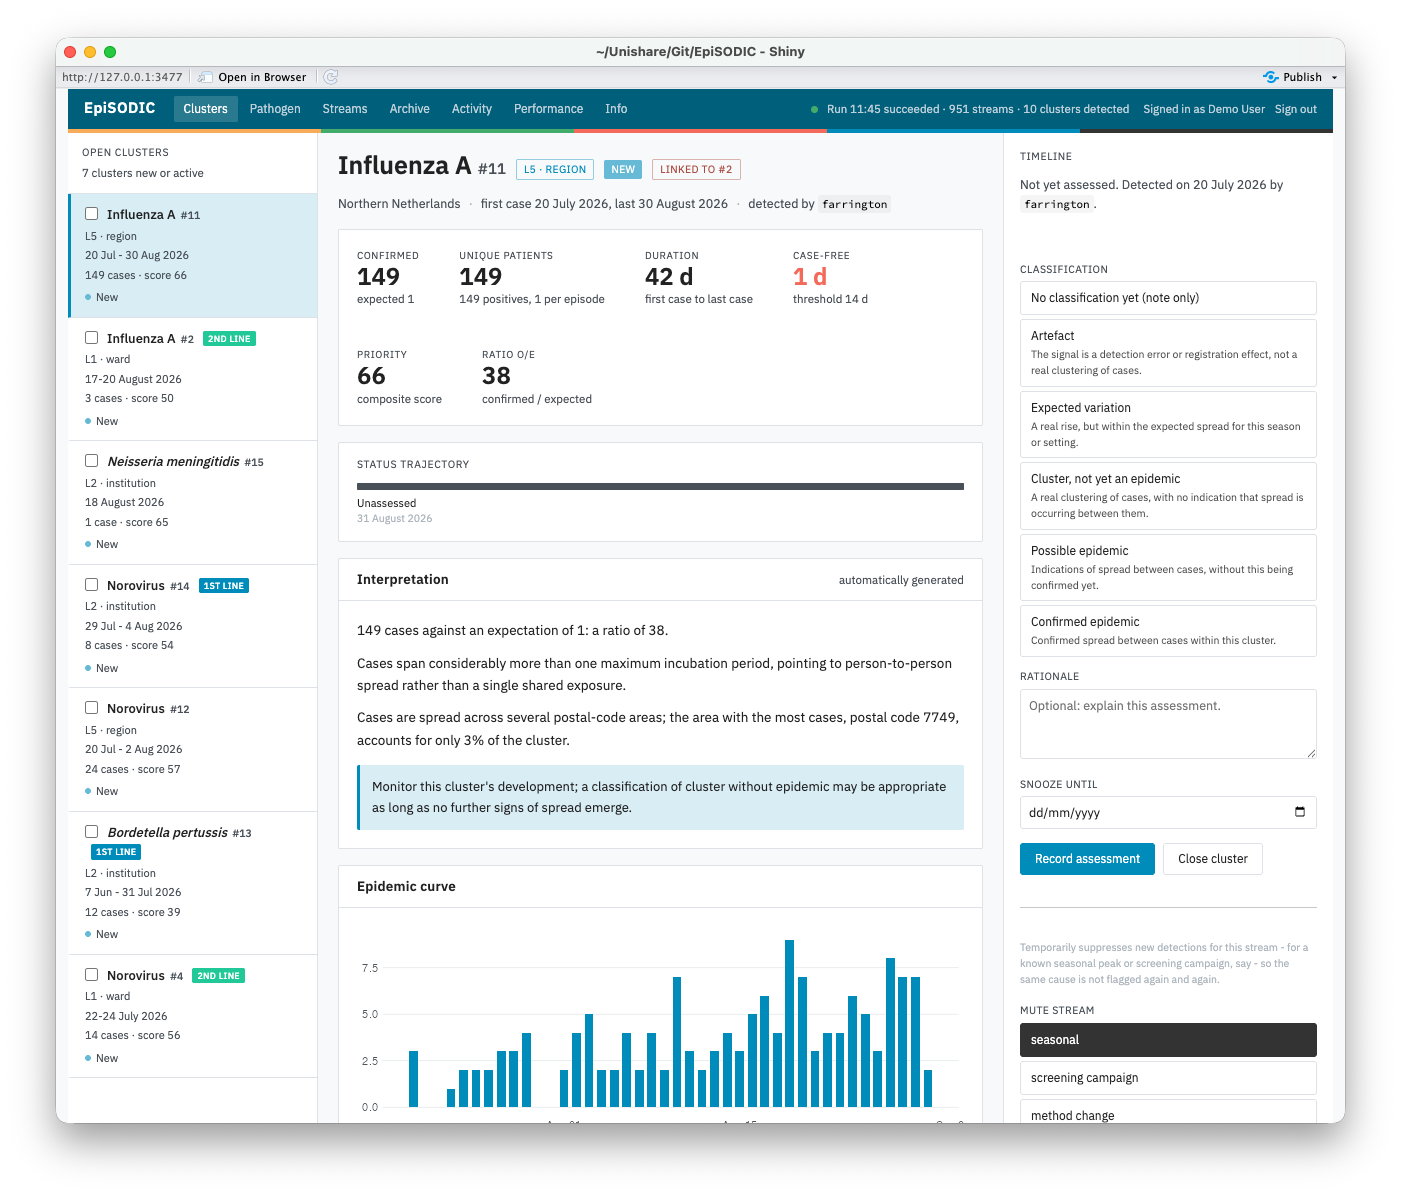
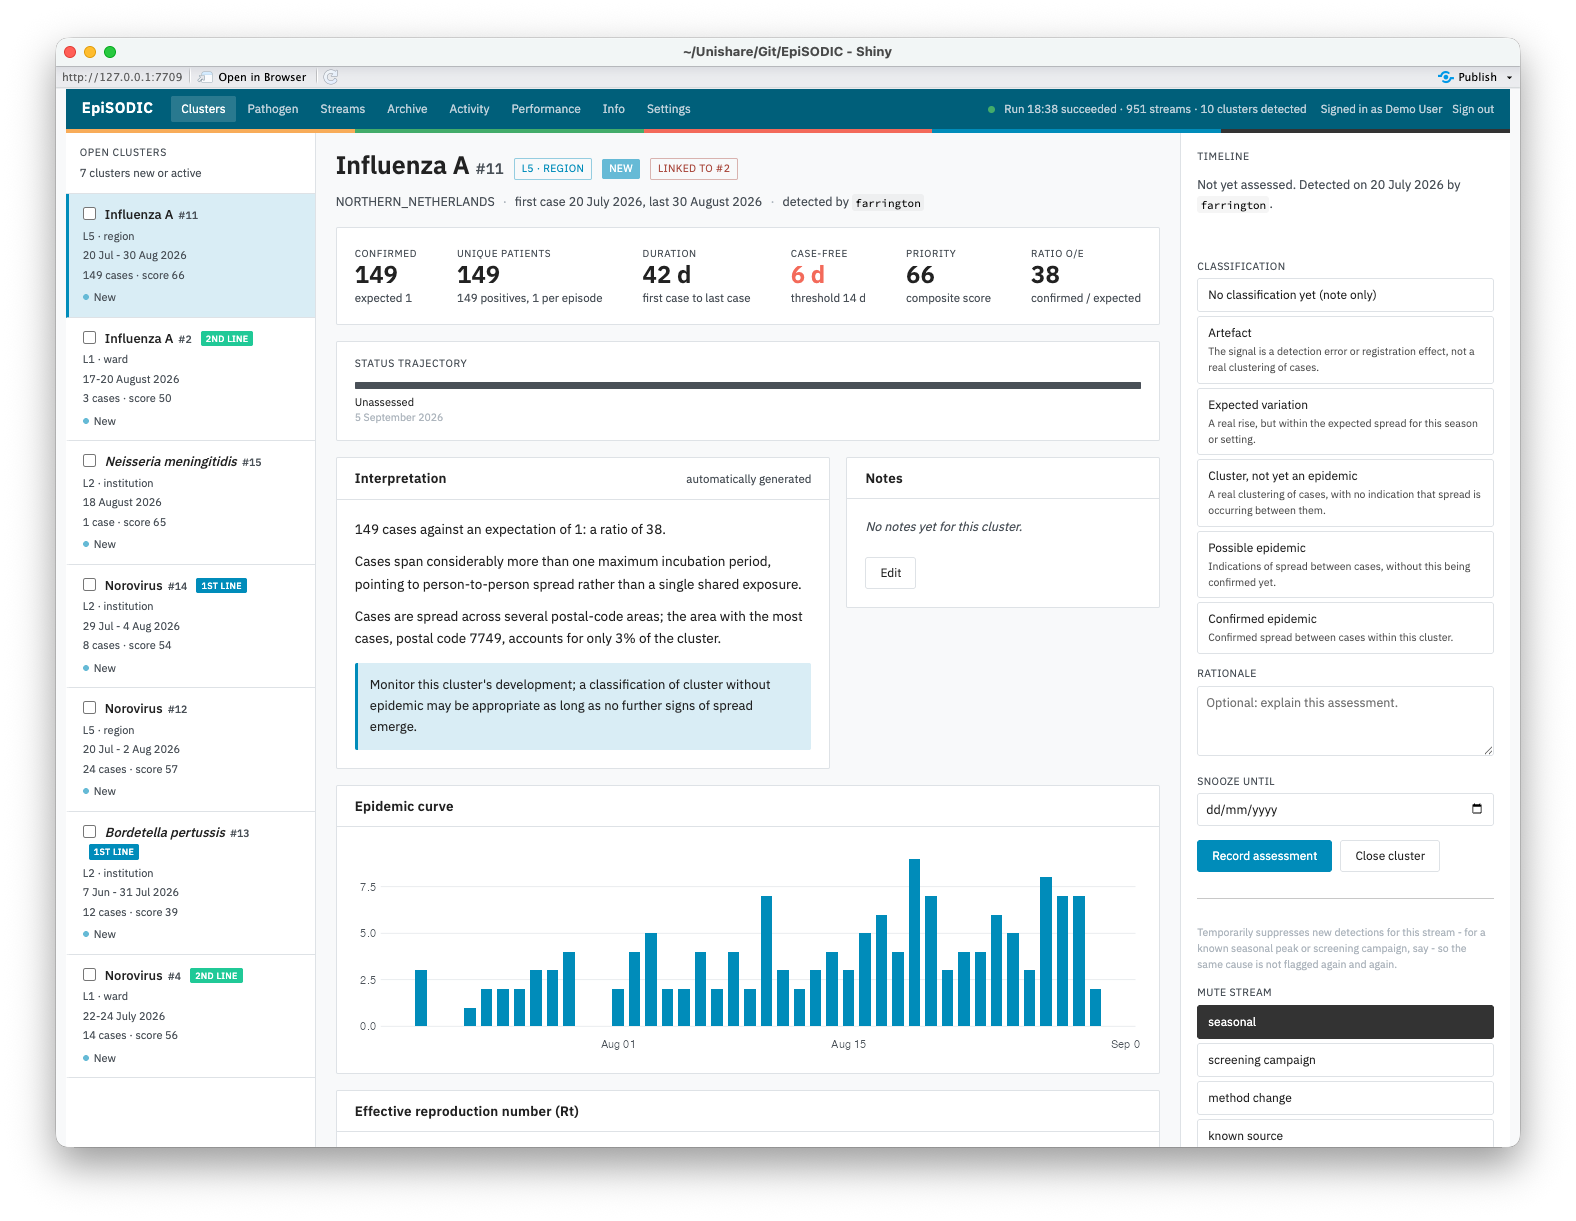
UI fixes

Changed region(s): [[0.0307, 0.0309, 0.9822, 0.9582], [0.6138, 0.4637, 0.6752, 0.4946]]

diff --git a/inst/app/www/episodic.css b/inst/app/www/episodic.css
@@ -248,7 +248,7 @@ body {
 .episodic-chip-filled { color: #fff; }
 .episodic-chip-outline { background: transparent; border: 1px solid; }
 
-input:focus-visible {
+:focus-visible {
   outline-color: var(--episodic-primary) !important;
 }
 
@@ -789,7 +789,8 @@ dl.episodic-settings dd { margin: 0; }
    caption styling that span would otherwise apply. */
 .episodic-notes-history-btn {
   font-size: 0.846rem;
-  padding: 2px 10px;
+  padding: 0px 10px;
+  margin-bottom: -1px;
 }
 .episodic-notes-history-entry {
   padding: 10px 0;
@@ -1074,7 +1075,7 @@ dl.episodic-settings dd { margin: 0; }
   border: 1px solid var(--episodic-border);
   border-radius: 6px;
   padding: 14px 16px;
-  background: var(--episodic-bg-subtle);
+  background: var(--episodic-bg);
   display: flex;
   flex-direction: column;
 }
